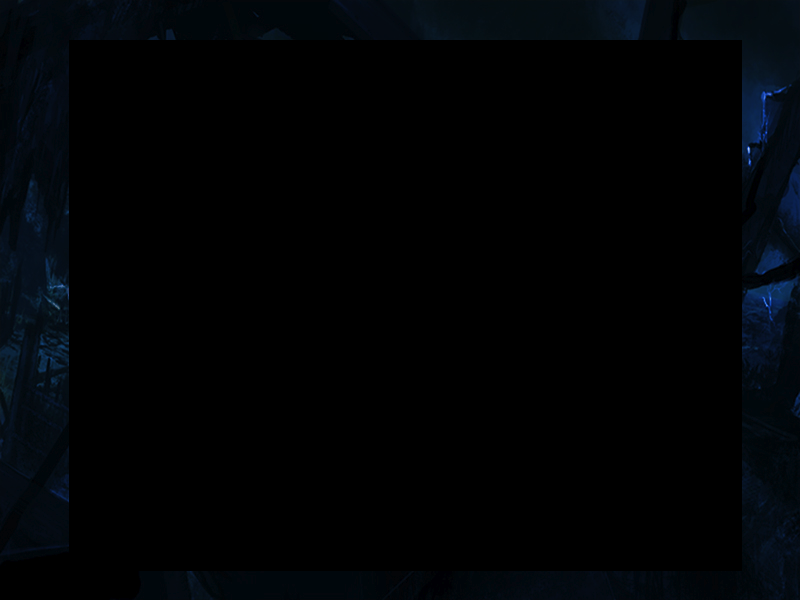
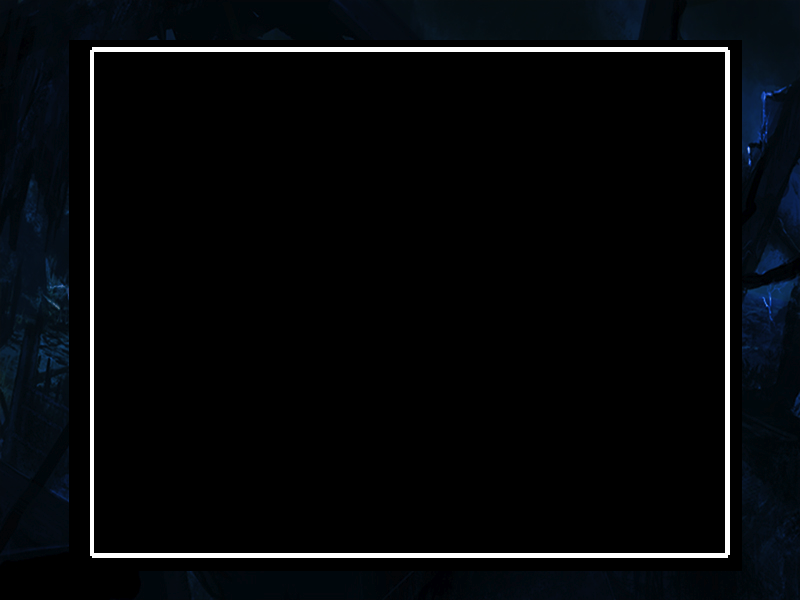
Borders

Changed region(s): [[0.0938, 0.06, 0.9375, 0.93]]

diff --git a/src/HelpScreen.java b/src/HelpScreen.java
@@ -118,7 +118,7 @@ public class HelpScreen {
 		  g.setColor(Color.white);
 		  Font f = g.getFont();
 		  g.setFont(new Font("SansSerif", Font.BOLD, 30));
-		  g.drawString("Controls:",340,75);
+		  g.drawString("Controls:",340,80);
 		  g.setFont(f);
 		  //g.setColor(Color.blue);
 		  g.setFont(new Font("SansSerif", Font.BOLD, 12));
